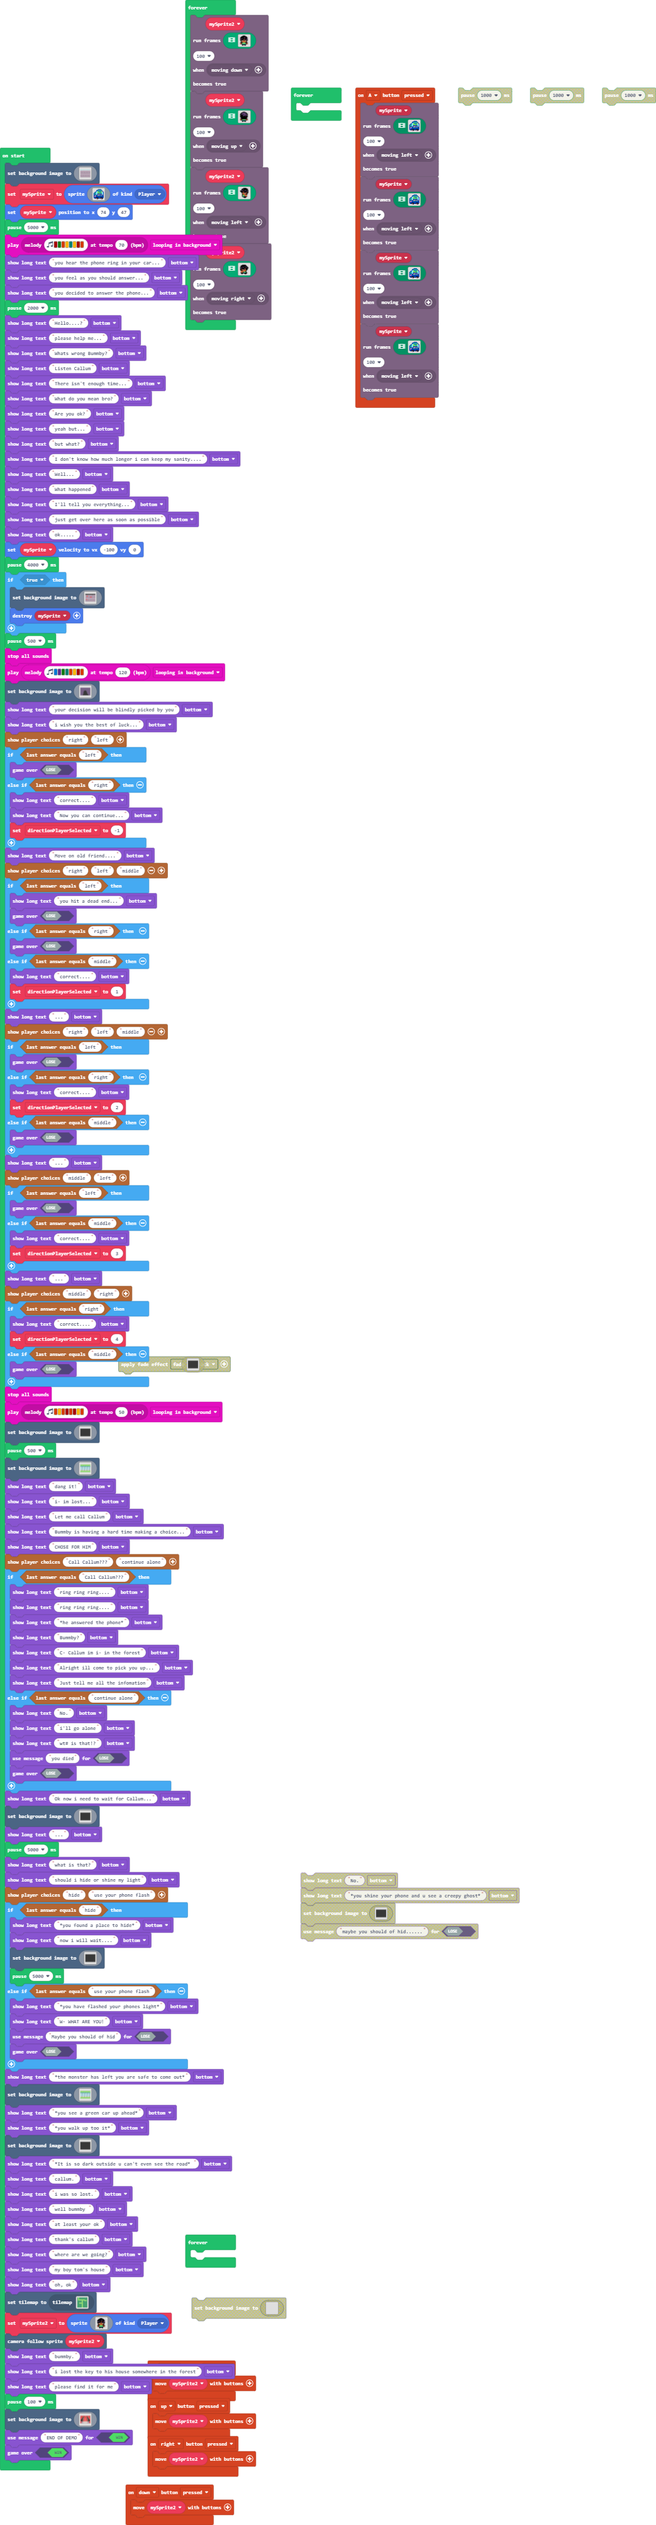
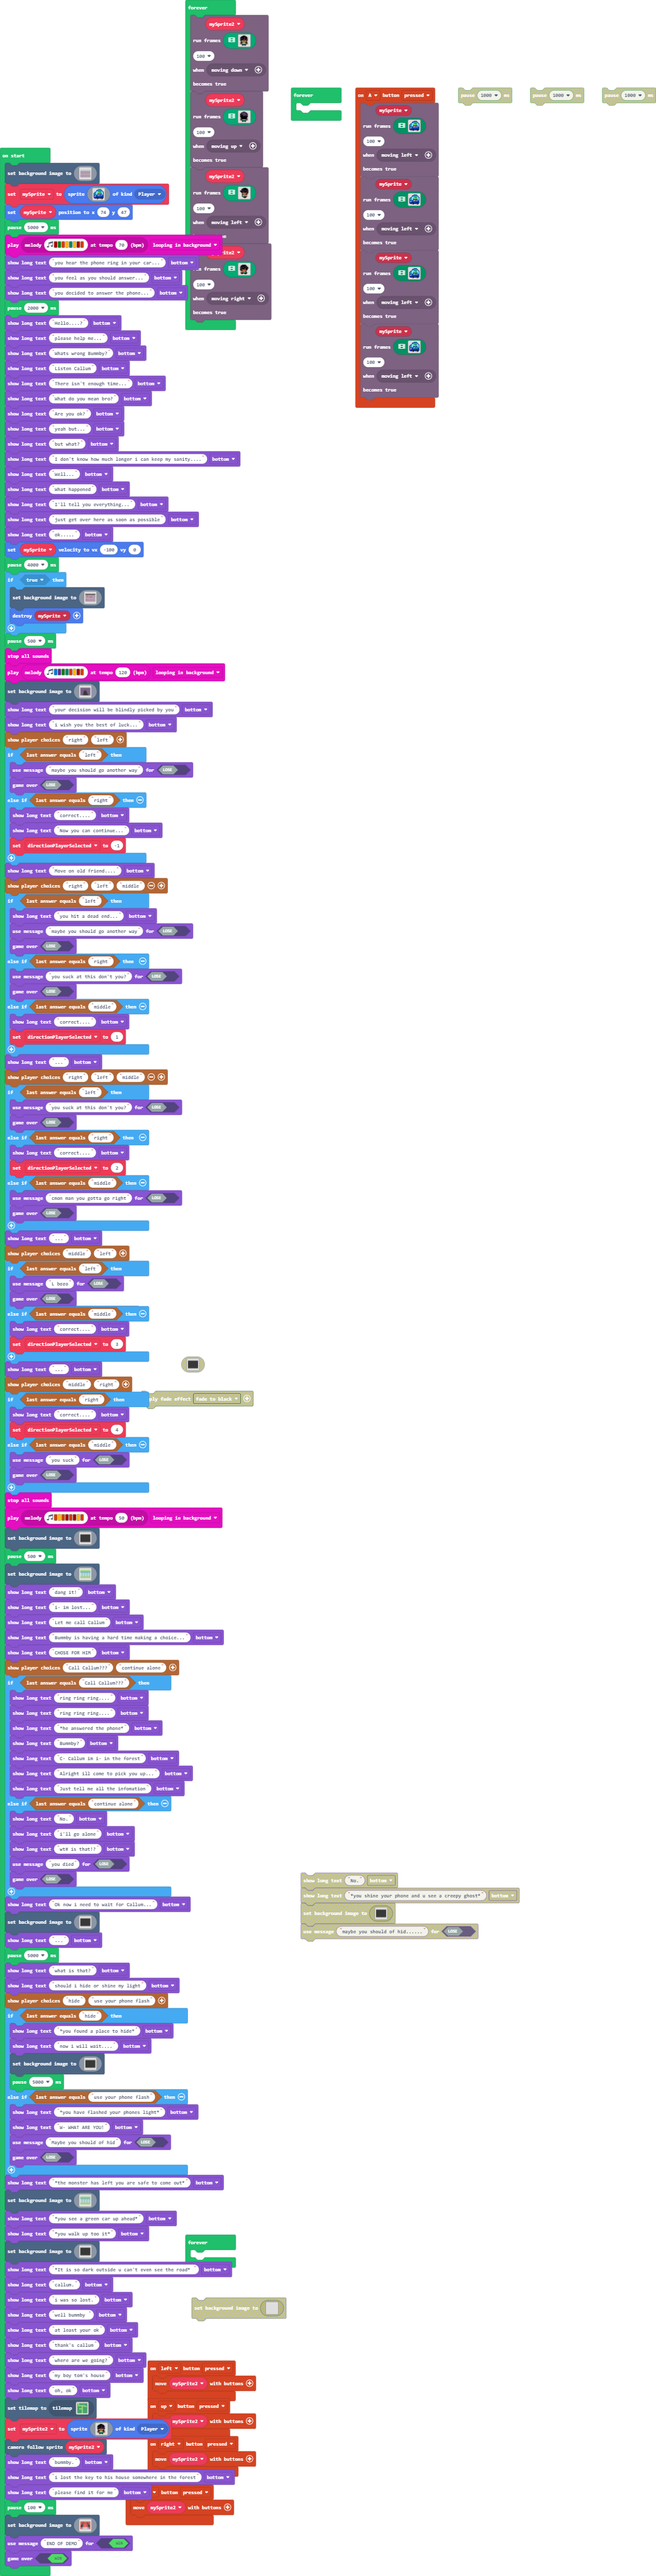
added more death text to when you lose

diff --git a/main.ts b/main.ts
@@ -729,6 +729,7 @@ game.showLongText("your decision will be blindly picked by you", DialogLayout.Bo
 game.showLongText("i wish you the best of luck...", DialogLayout.Bottom)
 story.showPlayerChoices("right", "left")
 if (story.checkLastAnswer("left")) {
+    game.setGameOverMessage(false, "maybe you should go another way")
     game.gameOver(false)
 } else if (story.checkLastAnswer("right")) {
     game.showLongText("correct....", DialogLayout.Bottom)
@@ -739,8 +740,10 @@ game.showLongText("Move on old friend....", DialogLayout.Bottom)
 story.showPlayerChoices("right", "left", "middle")
 if (story.checkLastAnswer("left")) {
     game.showLongText("you hit a dead end...", DialogLayout.Bottom)
+    game.setGameOverMessage(false, "maybe you should go another way")
     game.gameOver(false)
 } else if (story.checkLastAnswer("right")) {
+    game.setGameOverMessage(false, "you suck at this don't you?")
     game.gameOver(false)
 } else if (story.checkLastAnswer("middle")) {
     game.showLongText("correct....", DialogLayout.Bottom)
@@ -749,16 +752,19 @@ if (story.checkLastAnswer("left")) {
 game.showLongText("...", DialogLayout.Bottom)
 story.showPlayerChoices("right", "left", "middle")
 if (story.checkLastAnswer("left")) {
+    game.setGameOverMessage(false, "you suck at this don't you?")
     game.gameOver(false)
 } else if (story.checkLastAnswer("right")) {
     game.showLongText("correct....", DialogLayout.Bottom)
     directionPlayerSelected = 2
 } else if (story.checkLastAnswer("middle")) {
+    game.setGameOverMessage(false, "cmon man you gotta go right")
     game.gameOver(false)
 }
 game.showLongText("...", DialogLayout.Bottom)
 story.showPlayerChoices("middle", "left")
 if (story.checkLastAnswer("left")) {
+    game.setGameOverMessage(false, "L bozo")
     game.gameOver(false)
 } else if (story.checkLastAnswer("middle")) {
     game.showLongText("correct....", DialogLayout.Bottom)
@@ -770,6 +776,7 @@ if (story.checkLastAnswer("right")) {
     game.showLongText("correct....", DialogLayout.Bottom)
     directionPlayerSelected = 4
 } else if (story.checkLastAnswer("middle")) {
+    game.setGameOverMessage(false, "you suck")
     game.gameOver(false)
 }
 music.stopAllSounds()
